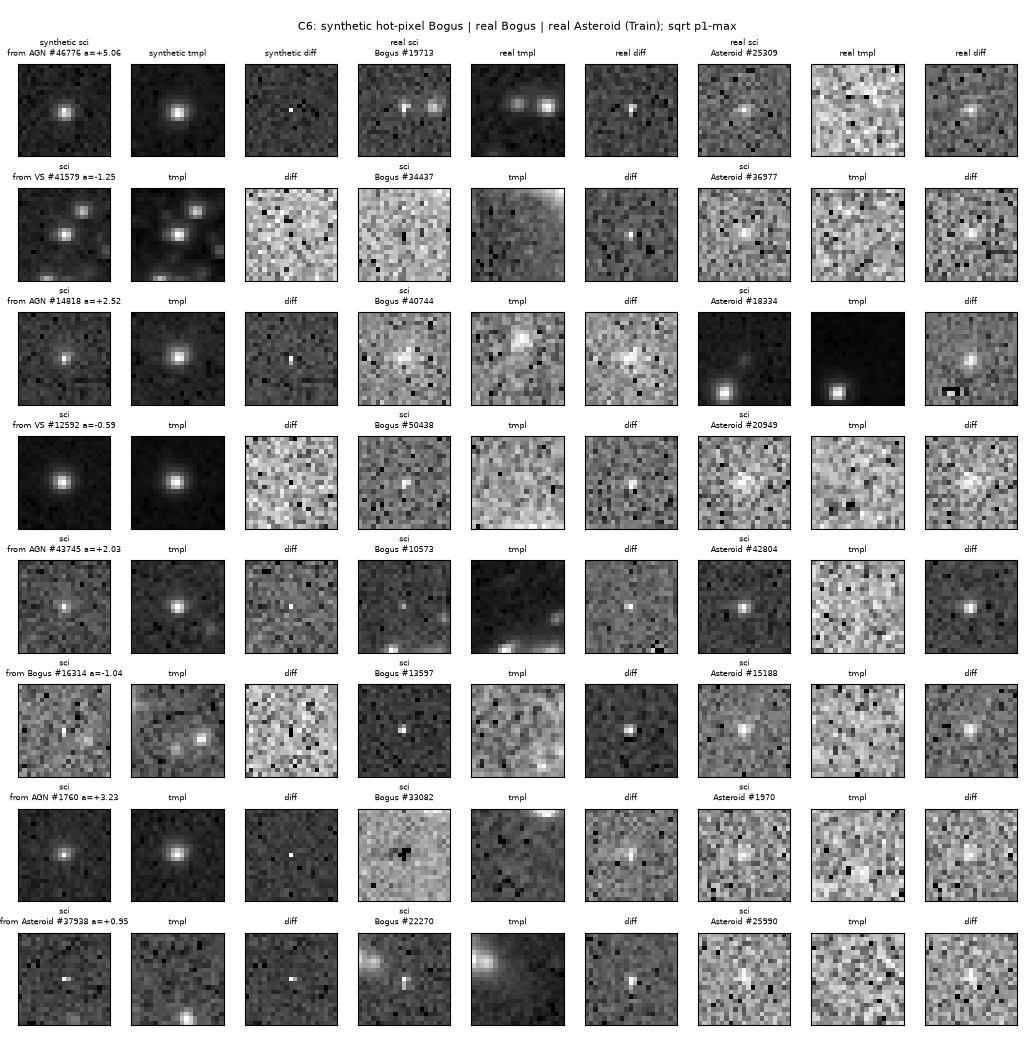
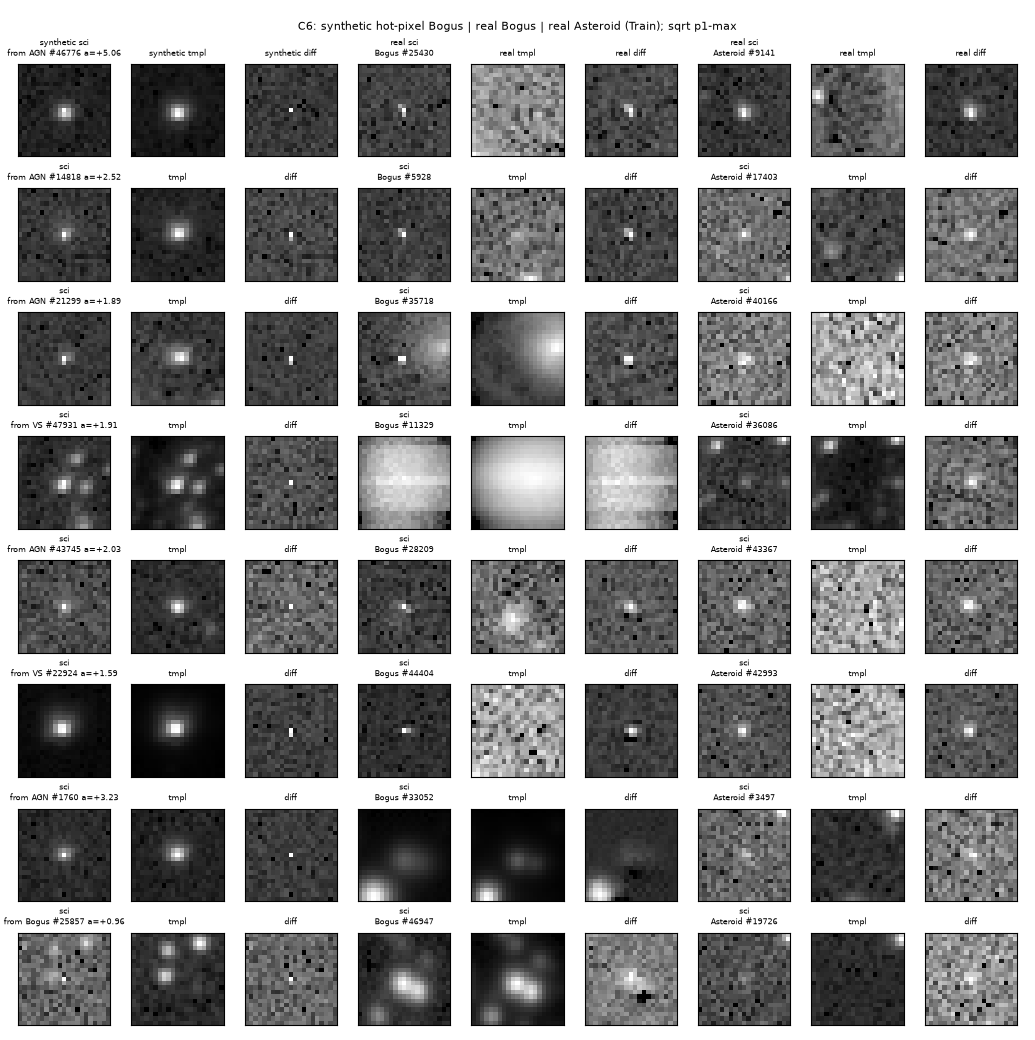
fix(training): build C6 synthetic Bogus from positive alerts only
The first version also used negative alerts (a < 0) as sources, whose
synthetic difference a * (noise + spike) + c got the spike as a central
dip (centre z about -30): a pattern no real stamp has, since every alert
is a central peak of its stored difference (real medians +5.4 to +43.6
per class and sign), and a hot pixel in the science can only trigger a
positive alert. It was about a third of the synthetic rows (integrator
review of PR #20).

- Sources need a > 0 and b < 0; donors are positive-alert Bogus.
- SN rows are never replaced (the weakest class keeps all its rows).
- Test: every replaced row's difference is a positive central peak,
  and no negative-alert or SN row is a source.
- inspect_class_augment.py reports the centre z of synthetic and real
  differences (synthetic median +30.7, minimum +8.6 over 1,000 rows);
  grids, report, ADR 0006 and architecture.md updated.

diff --git a/scripts/inspect_class_augment.py b/scripts/inspect_class_augment.py
@@ -8,10 +8,12 @@ per-channel min-max, NaN -> 0), this writes to ``OUT``:
   next to two C5 noise draws of each (``class_augment.noise_augment`` at ``--aug-noise``,
   among the stamps with ``R^2 >= --min-r2``);
 - ``C6_synthetic.png``: ``--rows`` synthetic hot-pixel Bogus (``class_augment.
-  synthetic_bogus``, each from a random Train stamp of its batch), next to a real Bogus and
-  a real Asteroid;
+  synthetic_bogus``, each from a random Train stamp of its batch), next to a real
+  positive-alert Bogus and a real Asteroid;
 - ``report.json`` (also printed): per class, the share of stamps excluded by
-  ``R^2 < --min-r2`` and the share usable as a C6 source; the PSF FWHM measurement that
+  ``R^2 < --min-r2`` and the share usable as a C6 source; the centre z of the difference
+  (against the border median and MAD) of 1,000 synthetic rows and of real stamps per class
+  and sign of ``a`` (every real alert is a central peak); the PSF FWHM measurement that
   sets ``class_augment.MIN_PSF_FWHM_PX``; the widest spike's FWHM.
 
 **PSF measurement.** A pixel-integrated circular Gaussian plus a constant is fitted
@@ -67,6 +69,8 @@ _CHANNELS = ("sci", "tmpl", "diff")
 _WINDOW = 11
 _MIN_SNR = 15.0
 _FIT_CHUNK = 2048
+#: Synthetic rows whose difference centre z is measured.
+_Z_SAMPLES = 1000
 
 
 def _stretch(image: np.ndarray) -> np.ndarray:
@@ -138,15 +142,17 @@ def _c6_grid(
     labels: np.ndarray,
     fits: np.ndarray,
     args: argparse.Namespace,
-) -> None:
+) -> dict[str, float]:
+    """Write ``C6_synthetic.png``; return the median centre z of 1,000 synthetic differences."""
     rng = np.random.default_rng(args.seed + 1)
     bogus, asteroid = (
         np.flatnonzero(labels == LABEL_NAMES.index(c)) for c in ("Bogus", "Asteroid")
     )
-    eligible = fits[:, 3] >= args.min_r2
+    # Real positive-alert Bogus (the kind C6 makes) with a well-explained difference.
+    eligible = (fits[:, 3] >= args.min_r2) & (fits[:, 0] > 0)
     synthetic: list[tuple[np.ndarray, str]] = []
     step = 0
-    while len(synthetic) < args.rows:
+    while len(synthetic) < max(args.rows, _Z_SAMPLES):
         rows = rng.choice(len(labels), 64, replace=False)
         targets = torch.nn.functional.one_hot(torch.from_numpy(labels[rows]), len(LABEL_NAMES))
         built, _, _, replaced = synthetic_bogus(
@@ -163,6 +169,7 @@ def _c6_grid(
             text = f"from {LABEL_NAMES[labels[source]]} #{source} a={fits[source, 0]:+.2f}"
             synthetic.append((built[j].numpy(), text))
         step += 1
+    z = np.array([_centre_z(crop[2]) for crop, _ in synthetic[:_Z_SAMPLES]])
     real_bogus = rng.choice(bogus[eligible[bogus]], args.rows, replace=False)
     real_asteroid = rng.choice(asteroid, args.rows, replace=False)
     grid = [
@@ -171,6 +178,33 @@ def _c6_grid(
     ]
     title = "C6: synthetic hot-pixel Bogus | real Bogus | real Asteroid (Train); sqrt p1-max"
     _grid(out / "C6_synthetic.png", title, grid[: args.rows], ["synthetic", "real", "real"])
+    return {"median": round(float(np.median(z)), 1), "min": round(float(z.min()), 1)}
+
+
+def _centre_z(image: np.ndarray) -> float:
+    """The centre pixel's z against the median and MAD of the two-pixel border."""
+    side = image.shape[-1]
+    border = ~np.pad(np.ones((side - 4, side - 4), dtype=bool), 2)
+    values = image[border]
+    median = np.median(values)
+    mad = 1.4826 * np.median(np.abs(values - median))
+    return float((image[side // 2, side // 2] - median) / mad) if mad > 0 else 0.0
+
+
+def _real_centre_z(images: np.ndarray, labels: np.ndarray, fits: np.ndarray) -> dict[str, Any]:
+    """Median centre z of the real differences, per class and sign of ``a`` (500 each)."""
+    rng = np.random.default_rng(0)
+    out: dict[str, Any] = {}
+    for label, name in enumerate(LABEL_NAMES):
+        for sign, tag in ((1, "a>0"), (-1, "a<0")):
+            rows = np.flatnonzero((labels == label) & (np.sign(fits[:, 0]) == sign))
+            if rows.size < 20:
+                continue
+            pick = rng.choice(rows, min(500, rows.size), replace=False)
+            out[f"{name} {tag}"] = round(
+                float(np.median([_centre_z(images[i, 2]) for i in pick])), 1
+            )
+    return out
 
 
 def _gaussian_model(p: torch.Tensor) -> torch.Tensor:
@@ -292,11 +326,18 @@ def main() -> None:
     images, features, labels = train.images, train.features, train.labels
     fits = stamp_fits(images)
     _c5_grids(args.out, images, labels, fits, args)
-    _c6_grid(args.out, images, features, labels, fits, args)
+    synthetic_z = _c6_grid(args.out, images, features, labels, fits, args)
 
     a, b = fits[:, 0], fits[:, 1]
     unmasked = ~masked_pixels(torch.from_numpy(images)).flatten(1).any(dim=1).numpy()
-    source = (fits[:, 3] >= args.min_r2) & (a * b < 0) & (fits[:, 4] > 0) & unmasked
+    source = (
+        (labels != LABEL_NAMES.index("SN"))
+        & (fits[:, 3] >= args.min_r2)
+        & (a > 0)
+        & (b < 0)
+        & (fits[:, 4] > 0)
+        & unmasked
+    )
     worst = np.zeros((21, 21))
     worst[10, 10], worst[10, 11] = 1.0, SPIKE_LINE_RATIO[1]
     report: dict[str, Any] = {
@@ -304,6 +345,10 @@ def main() -> None:
         "r2_exclusions": fit_exclusions(fits, labels, args.min_r2),
         "c6_source_share": {
             name: round(float(source[labels == k].mean()), 3) for k, name in enumerate(LABEL_NAMES)
+        },
+        "difference_centre_z": {
+            "synthetic": synthetic_z,
+            "real_median": _real_centre_z(images, labels, fits),
         },
         "widest_spike_fwhm_px": round(moment_fwhm(worst), 3),
         "MIN_PSF_FWHM_PX": MIN_PSF_FWHM_PX,

diff --git a/src/astro_simclr/training/class_augment.py b/src/astro_simclr/training/class_augment.py
@@ -39,12 +39,15 @@ template's, which the relation already carries.
   of the source science's own background sigma, plus a spike at the crop centre
   (:func:`spike_patterns`: one pixel, or a 2-pixel horizontal or vertical line, 10-50 sigma);
   the difference is the relation applied to that science and template,
-  ``a * (noise + spike) + c`` (so a negative alert's difference gets a negative spike, and
-  the source's own transient, in its residual, is gone); then the min-max. The label is
-  Bogus, and the features are those of a real Bogus row of the same batch whose
-  ``isdiffpos`` matches the sign of ``a`` (a donor from the batch rather than a separate
-  bank: always the run's own training part, also for split runs). A real stamp is never
-  relabelled: the replaced row's stamp is only the raw material.
+  ``a * (noise + spike) + c`` (the source's own transient, in its residual, is gone); then
+  the min-max. **Only positive alerts (``a > 0``) are sources**: an alert is a peak at the
+  centre of its stored difference, negative alerts included (their difference is stored
+  flipped), and a hot pixel in the science can only trigger a positive alert, so a source
+  with ``a < 0`` would give a central dip that no real stamp has. SN rows are never
+  replaced (the weakest class keeps all its rows). The label is Bogus, and the features are
+  those of a real positive-alert Bogus row of the same batch (a donor from the batch rather
+  than a separate bank: always the run's own training part, also for split runs). A real
+  stamp is never relabelled: the replaced row's stamp is only the raw material.
 
 **The spike is sharper than any PSF** (:func:`moment_fwhm`, :data:`MIN_PSF_FWHM_PX`). The
 smallest PSF FWHM measured on ``red`` Train is 1.19 px: a pixel-integrated circular Gaussian
@@ -136,6 +139,7 @@ _ISDIFFPOS: Final = KEPT_FEATURE_NAMES.index("isdiffpos")
 #: Stored ``isdiffpos`` is 0 (a positive alert, ``a > 0``) or 2.12 (negative).
 _ISDIFFPOS_SPLIT: Final = 1.0
 _BOGUS: Final = LABEL_NAMES.index("Bogus")
+_SN: Final = LABEL_NAMES.index("SN")
 
 #: The smallest PSF FWHM in the data, in pixels (measured on the differences; module
 #: docstring).
@@ -393,14 +397,16 @@ def synthetic_bogus(
     ``images`` (B, 3, S, S) crops (no context channels), ``features`` (B, 23), ``targets`` (B,
     5) one-hot, ``fits`` (B, 6) of :func:`stamp_fits`. Returns the new images, features and
     targets, and which rows were replaced. The construction is in the module docstring. A row
-    can be a source when ``R^2 >= min_r2``, ``a * b < 0`` (the template enters the static
-    science with a positive scale), its science sigma is positive and no pixel is masked; a
-    source is used when the batch has a real Bogus row whose ``isdiffpos`` matches the sign of
-    ``a`` (the feature donor, chosen uniformly among them; the original rows, before any
-    replacement). The rows are taken in a random order, so fewer than ``round(fraction * B)``
-    are replaced when sources or donors run out. Draws, always: a permutation of B, B uniforms
-    (donors), (B, S, S) normals (noise), B uniforms (spike S/N) and :func:`spike_patterns` of B.
-    The inputs are not modified.
+    can be a source when it is not an SN (the weakest class keeps all its rows), ``R^2 >=
+    min_r2``, ``a > 0`` and ``b < 0`` (a positive alert, whose difference is not stored
+    flipped: a hot pixel in the science can only trigger a positive alert; the template
+    enters the static science with a positive scale), its science sigma is positive and no
+    pixel is masked. The feature donor is a real positive-alert Bogus row of the batch
+    (stored ``isdiffpos`` 0), chosen uniformly among the original rows, before any
+    replacement; without one nothing is replaced. The rows are taken in a random order, so
+    fewer than ``round(fraction * B)`` are replaced when sources run out. Draws, always: a
+    permutation of B, B uniforms (donors), (B, S, S) normals (noise), B uniforms (spike S/N)
+    and :func:`spike_patterns` of B. The inputs are not modified.
 
     Raises:
         ValueError: if ``images`` is not (B, 3, S, S).
@@ -421,20 +427,16 @@ def synthetic_bogus(
     fits_cpu = fits.detach().cpu().numpy().astype(np.float64)
     a, b, c, r2, sigma = (fits_cpu[:, k] for k in (0, 1, 2, 3, 4))
     unmasked = ~masked_pixels(images[:, :3]).flatten(1).any(dim=1).cpu().numpy()
-    source = (r2 >= min_r2) & (a * b < 0) & (sigma > 0) & unmasked
     labels = targets.argmax(dim=1).cpu().numpy()
+    source = (labels != _SN) & (r2 >= min_r2) & (a > 0) & (b < 0) & (sigma > 0) & unmasked
     positive = features[:, _ISDIFFPOS].cpu().numpy() < _ISDIFFPOS_SPLIT
-    donors = {
-        sign: np.flatnonzero((labels == _BOGUS) & (positive == sign)) for sign in (True, False)
-    }
+    donors = np.flatnonzero((labels == _BOGUS) & positive)
+    if donors.size == 0:
+        return images, features, targets, replaced
     donor_of = np.full(n, -1)
-    for row in order:
-        if replaced.sum() == wanted:
-            break
-        pool = donors[bool(a[row] > 0)]
-        if source[row] and pool.size:
-            replaced[row] = True
-            donor_of[row] = pool[int(donor_u[row] * pool.size)]
+    for row in order[source[order]][:wanted]:
+        replaced[row] = True
+        donor_of[row] = donors[int(donor_u[row] * donors.size)]
     if not replaced.any():
         return images, features, targets, replaced
 

diff --git a/tests/test_class_augment.py b/tests/test_class_augment.py
@@ -298,6 +298,7 @@ def test_moment_fwhm_is_the_fwhm_of_a_pixel_integrated_gaussian() -> None:
 def _synthetic_inputs(
     n: int = 8,
 ) -> tuple[torch.Tensor, torch.Tensor, torch.Tensor, torch.Tensor]:
+    """Rows: a = +1 (even) or -1 (odd); AGN, SN, VS, Asteroid, Bogus, Bogus, AGN, SN."""
     images, fits = _batch(n)
     features = torch.randn(n, 23)
     labels = torch.tensor([0, 1, 2, 3, _BOGUS, _BOGUS, 0, 1])[:n]
@@ -308,11 +309,21 @@ def _synthetic_inputs(
     return images, features, targets, fits
 
 
+def _centre_z(image: torch.Tensor) -> float:
+    """The centre pixel's z against the border median and MAD (the integrator's measure)."""
+    border = torch.from_numpy(~np.pad(np.ones((_SIDE - 4, _SIDE - 4), bool), 2))
+    values = image[border]
+    median = values.median()
+    mad = (values - median).abs().median() * 1.4826
+    return float((image[_SIDE // 2, _SIDE // 2] - median) / mad)
+
+
 def test_synthetic_rows_are_bogus_with_a_sharp_central_spike() -> None:
     images, features, targets, fits = _synthetic_inputs()
     rng = augment_rng(0, 0, SYNTHETIC_STREAM)
     out, feats, tgts, replaced = synthetic_bogus(images, features, targets, fits, 0.5, rng)
-    assert replaced.sum() == 4
+    # Sources: positive alerts (a > 0: even rows) that are not SN: rows 0, 2, 4 and 6.
+    assert replaced.tolist() == [True, False, True, False, True, False, True, False]
     rows = np.flatnonzero(replaced)
     assert torch.equal(tgts[rows].argmax(dim=1), torch.full((4,), _BOGUS))
     # Real stamps are never relabelled: the other rows are untouched.
@@ -324,19 +335,32 @@ def test_synthetic_rows_are_bogus_with_a_sharp_central_spike() -> None:
     centre = _SIDE // 2
     for row in rows:
         assert torch.equal(out[row, 1], images[row, 1])  # the template is unchanged
-        positive = bool(fits[row, 0] > 0)
-        # The donor is a real Bogus row whose isdiffpos matches the sign of a.
-        donor = 4 if positive else 5
-        assert torch.equal(feats[row], features[donor])
+        # The donor is the batch's positive-alert real Bogus.
+        assert torch.equal(feats[row], features[4])
         science, difference = out[row, 0], out[row, 2]
         assert science[centre, centre] == 1  # the spike is the science's maximum
         # Sharp: at most 2 pixels above half the maximum, at or next to the centre.
         above = torch.nonzero(science > 0.5)
         assert len(above) <= 2
         assert (above - centre).abs().sum(dim=1).max() <= 1
-        # The difference has the same spike, negative for a negative alert.
-        extreme = 1.0 if positive else 0.0
-        assert difference[centre, centre] == extreme
+        # The difference has the same spike, a central peak as in every real alert.
+        assert difference[centre, centre] == 1
+        assert _centre_z(difference) > 5
+
+
+def test_synthetic_differences_are_central_peaks_for_every_row() -> None:
+    # Every replaced row, at any fraction and step: the difference's centre is a positive
+    # peak against its border (no central dip, which no real alert has), and no negative
+    # alert or SN row is ever a source.
+    images, features, targets, fits = _synthetic_inputs()
+    for step in range(20):
+        rng = augment_rng(1, step, SYNTHETIC_STREAM)
+        out, _, _, replaced = synthetic_bogus(images, features, targets, fits, 0.99, rng)
+        assert replaced.any()
+        assert not replaced[fits[:, 0].numpy() < 0].any()
+        assert not replaced[targets.argmax(dim=1).numpy() == LABEL_NAMES.index("SN")].any()
+        for row in np.flatnonzero(replaced):
+            assert _centre_z(out[row, 2]) > 0
 
 
 def test_synthetic_bogus_needs_sources_and_donors() -> None:
@@ -345,6 +369,10 @@ def test_synthetic_bogus_needs_sources_and_donors() -> None:
     no_bogus = targets.clone()
     no_bogus[4:6] = torch.nn.functional.one_hot(torch.tensor([0, 0]), 5).float()
     *_, replaced = synthetic_bogus(images, features, no_bogus, fits, 0.5, rng)
+    assert not replaced.any()
+    negative_donors = features.clone()
+    negative_donors[:, _ISDIFFPOS] = 2.1225  # only negative-alert Bogus: no donor
+    *_, replaced = synthetic_bogus(images, negative_donors, targets, fits, 0.5, rng)
     assert not replaced.any()
     low = fits.clone()
     low[:, 3] = 0.1

diff --git a/docs/decisions/0006-class-aware-augmentation.md b/docs/decisions/0006-class-aware-augmentation.md
@@ -57,16 +57,28 @@ result, and the user asked whether the difference would be computed or augmented
    the template is unchanged; the science is the static sky the relation implies,
    `-(b/a) * tmpl`, plus Gaussian noise of the source science's background sigma, plus a
    spike at the centre; the difference is the relation applied to them,
-   `a * (noise + spike) + c` (so a negative alert's difference gets a negative spike, and the
-   source's transient, which lives in its residual, is gone); then the min-max. A source
-   needs `a*b < 0` (the template enters with a positive scale) and no masked pixel. The
-   label is Bogus and the features are those of a real Bogus row **of the same batch**
-   whose `isdiffpos` matches `sign(a)`, instead of a separate device-resident bank: the
-   batch is a shuffled stream of the run's own training part (also for split runs), it
-   needs no extra state, and a batch has about 20 % Bogus after the tiling (a row whose
-   donor pool is empty is skipped). **A real stamp is never relabelled**: the row's stamp is
-   only raw material, and its own label is replaced together with its image. A replaced row
-   is not noised again by C5.
+   `a * (noise + spike) + c` (the source's transient, which lives in its residual, is
+   gone); then the min-max. **Only positive alerts are sources** (`a > 0`, `b < 0`: the
+   template enters with a positive scale), with no masked pixel. An alert is a peak at the
+   centre of its stored difference, negative alerts included (their difference is stored
+   flipped: on `red` Train the median centre z of the real differences, against the border
+   median and MAD, is +5.4 to +43.6 for every class and sign), and a hot pixel in the
+   science can only trigger a positive alert. A first version also built Bogus from
+   `a < 0` sources, which gave the spike negative in the difference: a central dip
+   (z about -30) that no real stamp has, in about a third of the synthetic rows (found by
+   the integrator's review of PR #20). Putting the spike in the template for `a < 0` was
+   rejected: a hot pixel surviving a co-added template is rarer, and real negative Bogus are
+   mostly bad subtractions. Now the synthetic differences have a median centre z of +30.7
+   (minimum +8.6 over 1,000 rows). **SN rows are never replaced**: SN is the weakest class
+   (1,396 Train stamps), and C6 would otherwise remove its rows in proportion to the
+   fraction. The label is Bogus and the features are those of a real positive-alert Bogus
+   row (stored `isdiffpos` 0) **of the same batch**, instead of a separate device-resident
+   bank: the batch is a shuffled stream of the run's own training part (also for split
+   runs), it needs no extra state, and a batch has about 20 % Bogus after the tiling (a
+   batch without such a donor replaces nothing). **A real stamp is never relabelled**: the
+   row's stamp is only raw material, and its own label is replaced together with its image.
+   A replaced row is not noised again by C5. On `red` Train the share of stamps usable as a
+   source is AGN 44 %, VS 36 %, Asteroid 92 %, Bogus 57 %.
 6. **The spike is narrower than any PSF in the data, by an explicit, tested measure.**
    `moment_fwhm` is the circular-Gaussian FWHM from the pixel second moments less a pixel's
    own 1/12; for a pixel-integrated Gaussian it equals the Gaussian's FWHM, which is what
@@ -103,8 +115,8 @@ result, and the user asked whether the difference would be computed or augmented
   the 2.5 runs, not fixed here.
 - An augmented step costs a host-device round trip (the selection of rows and the draws are
   on the CPU) and C6's construction on the CPU for the few replaced rows.
-- C6 shifts the class balance of each batch towards Bogus by up to `synthetic_bogus`; the
-  tiling is unchanged.
+- C6 shifts the class balance of each batch towards Bogus by up to `synthetic_bogus`, taken
+  from AGN, VS, Asteroid and Bogus rows (never SN); the tiling is unchanged.
 - Old checkpoints of `PaperClassifierModule` load unchanged (the new hyperparameters have
   defaults); old runs' metrics no longer warn about the 2.5 flags in `compare-reference`.
 - Later ideas, not built: fake SN injected on real host galaxies (aimed at SN -> Asteroid);

diff --git a/docs/architecture.md b/docs/architecture.md
@@ -941,9 +941,12 @@ on every row. Validation and test are never augmented.
   continuous kept features; `DISCRETE_FEATURES` (`isdiffpos`; the integer counts
   `ndethist`, `ncovhist`, `non_detections`) never change.
 - **C6, synthetic hot-pixel Bogus** (`synthetic_bogus`): `round(fraction·B)` rows, taken in
-  a random order among the possible sources (R² ≥ `aug_min_r2`, `a·b < 0`, σ_sci > 0, no
-  masked pixel) that have a feature donor (a real Bogus row of the batch whose `isdiffpos`
-  matches `sign(a)`). Each becomes: template unchanged; science `−(b/a)·tmpl + n + spike`
+  a random order among the possible sources: positive alerts only (`a > 0`, `b < 0`; a hot
+  pixel in the science cannot trigger a negative alert, and an `a < 0` source would give a
+  central dip that no real difference has), not SN (the weakest class keeps its rows),
+  R² ≥ `aug_min_r2`, σ_sci > 0, no masked pixel. The feature donor is a real positive-alert
+  Bogus row of the batch (none: nothing is replaced). Each becomes: template unchanged;
+  science `−(b/a)·tmpl + n + spike`
   (the static sky the relation implies, `n` Gaussian of the source science's σ, the spike
   10–50 σ); difference `a·(n + spike) + c`; then the min-max; label Bogus; the donor's
   features. `spike_patterns`: one pixel at the centre, or (probability 0.5) a 2-pixel
@@ -964,8 +967,9 @@ known `a, b, c`; the computed difference equals `a·sci + b·tmpl + c` before th
 `renormalise` equals the float path's min-max; augmented crops have per-channel min 0 and
 max 1 with masked pixels at 0; low-R² rows, skipped rows and the context are untouched; the
 discrete features are untouched; synthetic rows are Bogus, with the spike as the science's
-maximum, at most 2 pixels above half of it, a negative spike in a negative alert's
-difference, and a matching donor; no sources or no donors replace nothing; every spike is
+maximum, at most 2 pixels above half of it, the same spike as a central peak of the
+difference (positive centre z for every replaced row), a positive-alert donor, and never a
+negative-alert or SN source; no sources or no donors replace nothing; every spike is
 below `MIN_PSF_FWHM_PX`; defaults off are bit-identical with or without fits; evaluation is
 not augmented; the settings' checks; the preset deviations; a p4 run on every accelerator;
 an augmented fold run (fits equal to those of the fold's training part) and its exact

diff --git a/docs/decisions/README.md b/docs/decisions/README.md
@@ -10,4 +10,4 @@ One file per decision, `NNNN-title.md`, with Context / Decision / Consequences.
 | [0003](0003-carrasco2021-preset.md) | The `carrasco2021` preset: ALeRCE's code over the paper text (frozen feature BN, inactive dropout, Glorot fc biases), Adam (0.9, 0.999) with torch's ε placement, the without-features assumption, the NaN approximation, the leaked stamp out of Train only |
 | [0004](0004-evaluation-protocol.md) | Evaluation protocol: stored splits (the file is the truth), seed-mean stratified paired bootstrap, exact McNemar, the leaked stamp removed from Train only, CD21 on exactly 5 seeds |
 | [0005](0005-paper-model-variants.md) | The paper model's 2.5 architecture variants as orthogonal flags (`paper_arch`, `group_fields`, `context`, `rot90_augment`), faithful defaults listed in the presets, Glorot fans of group layers (the readout as a dense layer), the context normalised like the crop, hand-written p4/p4m layers |
-| [0006](0006-class-aware-augmentation.md) | Class-aware training augmentation (plan C5, C6): the difference computed from the science and template through a per-stamp fit, noise scaled to each crop's background sigma then the min-max again, discrete features never jittered, synthetic hot-pixel Bogus from the row's own stamp with a batch Bogus donor, spikes narrower than the measured PSF minimum (1.19 px), per-augmentation step-seeded generators |
+| [0006](0006-class-aware-augmentation.md) | Class-aware training augmentation (plan C5, C6): the difference computed from the science and template through a per-stamp fit, noise scaled to each crop's background sigma then the min-max again, discrete features never jittered, synthetic hot-pixel Bogus from positive-alert, non-SN rows with a batch Bogus donor, spikes narrower than the measured PSF minimum (1.19 px), per-augmentation step-seeded generators |

diff --git a/results/phase2/class-augment/README.md b/results/phase2/class-augment/README.md
@@ -13,8 +13,8 @@ uv run python scripts/inspect_class_augment.py DATA_DIR/td_ztf_stamp_17_06_20_re
 | File | What it shows |
 |---|---|
 | `C5_<class>.png` | 8 real crops per class (science / template / difference) next to two C5 noise draws of each |
-| `C6_synthetic.png` | 8 synthetic hot-pixel Bogus (the source class and its `a` in the title) next to a real Bogus and a real Asteroid |
-| `report.json` | per class: the share excluded by `R^2 < 0.5` and the share usable as a C6 source; the PSF FWHM fits; the widest spike's FWHM |
+| `C6_synthetic.png` | 8 synthetic hot-pixel Bogus (the source class and its `a` in the title) next to a real positive-alert Bogus and a real Asteroid |
+| `report.json` | per class: the share excluded by `R^2 < 0.5` and the share usable as a C6 source; the difference's centre z, synthetic and real; the PSF FWHM fits; the widest spike's FWHM |
 
 Every panel is stretched from its 1st percentile to its maximum, square root (a 1-99.5 %
 stretch would hide a one-pixel spike among the brightest noise pixels).
@@ -22,6 +22,10 @@ stretch would hide a one-pixel spike among the brightest noise pixels).
 Measurements (2026-11-08):
 
 - **Excluded by R^2 < 0.5:** AGN 10.6 %, SN 6.9 %, VS 13.8 %, Asteroid 4.8 %, Bogus 15.2 %.
-- **Usable as a C6 source:** AGN 87 %, SN 91 %, VS 68 %, Asteroid 92 %, Bogus 70 %.
+- **Usable as a C6 source** (positive alerts, never SN): AGN 44 %, SN 0 %, VS 36 %,
+  Asteroid 92 %, Bogus 57 %.
+- **Centre z of the difference** (against the border median and MAD): synthetic median
+  +30.7, minimum +8.6 (1,000 rows); real medians +5.4 to +43.6 for every class and sign of
+  `a` (an alert is always a central peak).
 - **Smallest PSF FWHM** (differences, fits with S/N > 15): 1.19 px (SN; Asteroids 1.21 px).
   `class_augment.MIN_PSF_FWHM_PX` is 1.19. The widest synthetic spike is 0.48 px.
